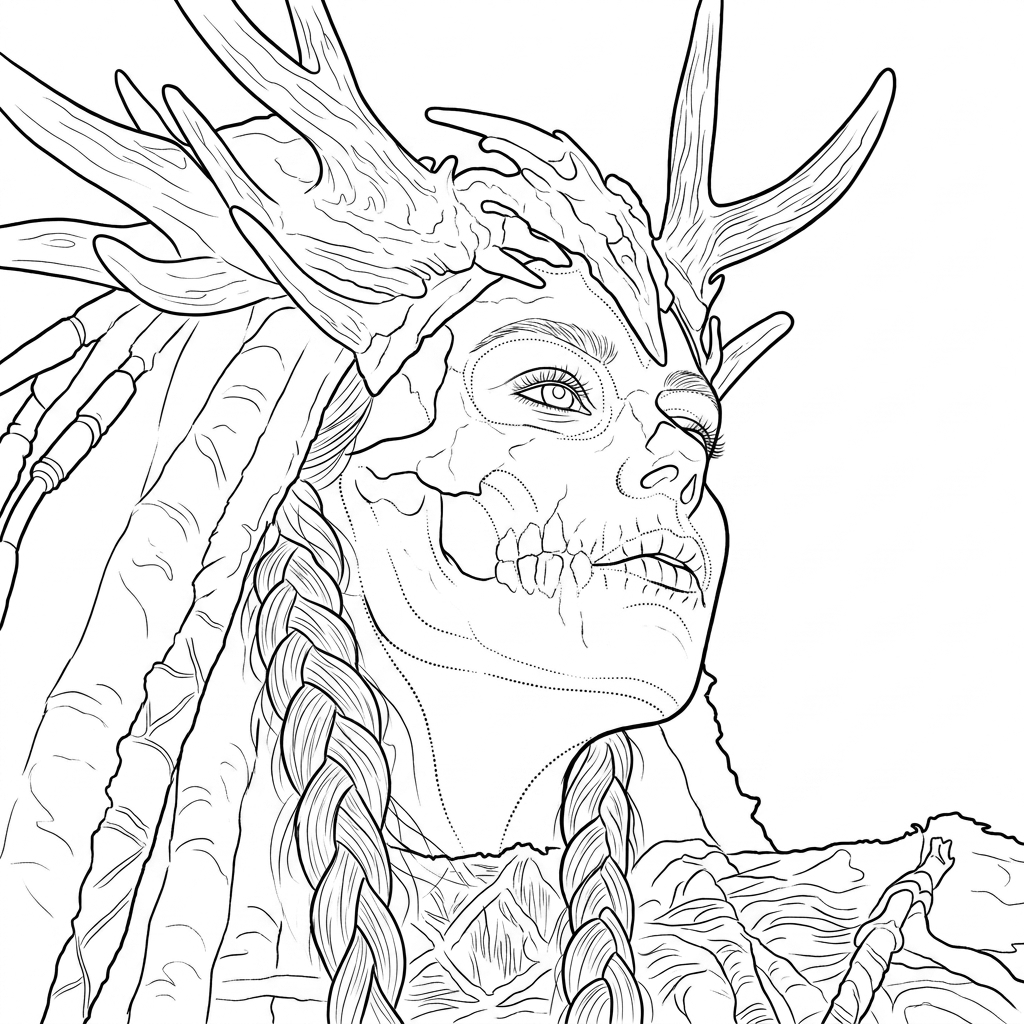
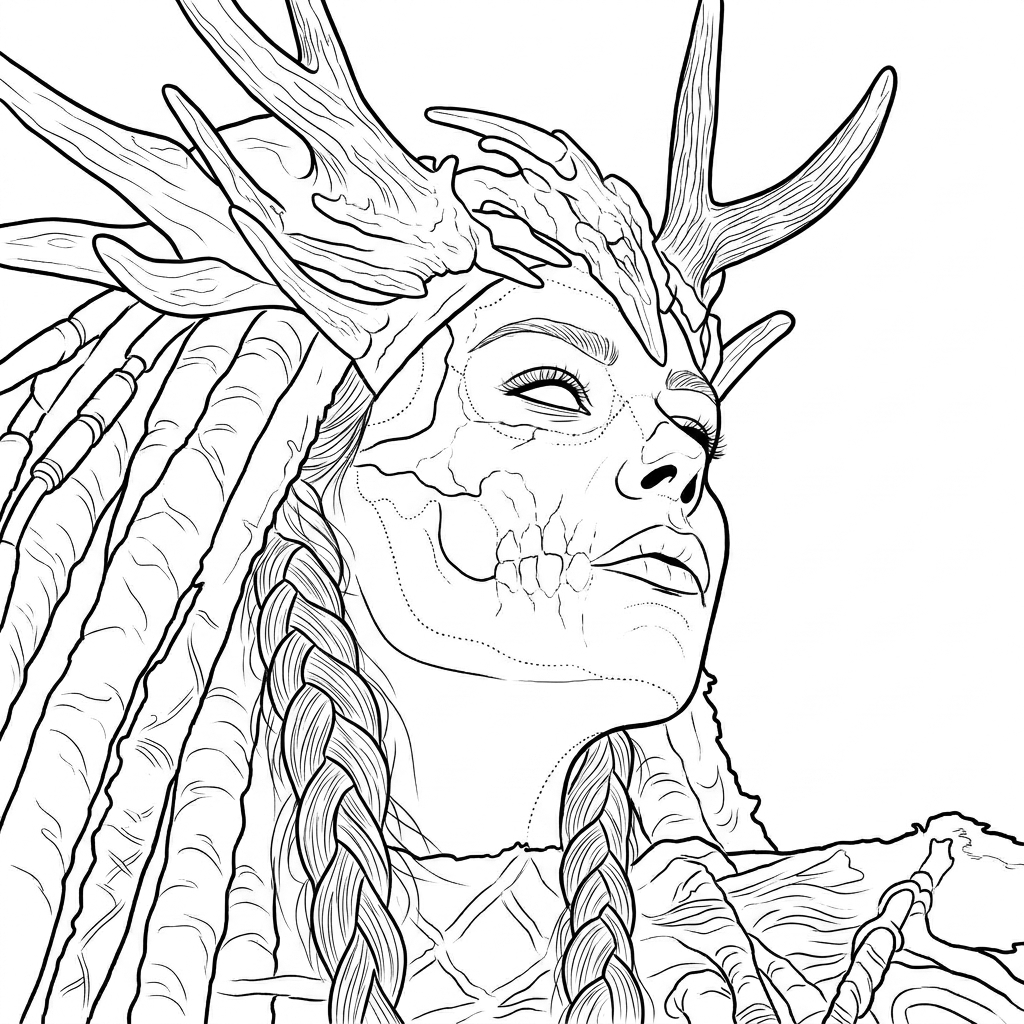
auto-commit for e076563c-9f85-4461-987d-11b3544e3045

Changed region(s): [[0.0, 0.0, 1.0, 1.0], [0.6875, 0.6562, 0.7188, 0.6875], [0.0, 0.0938, 0.0312, 0.125]]

diff --git a/backend/server.py b/backend/server.py
@@ -2065,6 +2065,9 @@ LIKENESS ENFORCEMENT (strict — applies before every other rule below):
 
 If you feel tempted to draw a "clean" or "better" version of the subject than what the reference shows — stop and trace the reference instead.
 
+BACKGROUND DOMINANCE (additional enforcement):
+Do NOT add background elements that are not explicitly present in the reference. Do NOT generate a moon, clouds, sky, stars, sun, smoke, mist, halos, auras, decorative motifs, frames, borders, scenery, landscapes, patterns, textures, or any environmental element unless that exact element appears in the reference image. The background of the stencil is PURE WHITE. If the reference background is dark, complex, or detailed — the stencil background is STILL pure white with no added content behind the subject. Inventing background elements is a FAILURE CONDITION.
+
 BLUEPRINT HEAVY+ — Tattoo Stencil (production standard).
 Every rule below applies on top of REFERENCE DOMINANCE and LIKENESS ENFORCEMENT above. Those two always win.
 
@@ -2097,6 +2100,12 @@ Specific per-region enforcement (apply every time the reference shows any of the
 - Inside the mouth (when visible) → contour lines for the tongue, outlines for each individual tooth, line for the lip-interior edge, lines indicating palate / inner cheek curvature. Never a filled dark mass between the lips.
 - Recessed cavities (any hollow opening in any subject) → rim outline + internal structural outlines. Never a filled darker patch.
 - Any solid-black region in the output is a FAILURE CONDITION, regardless of what the reference shows in that region.
+
+MANDATORY FINAL-CHECK (self-verification before output):
+Before finalizing, scan the entire output for any region larger than a single line stroke that is rendered as solid black or uniform dark gray. For any such region found:
+   - It is a FAILURE CONDITION.
+   - Replace it with boundary outlines + internal structural line work.
+This check applies to ALL naturally dark reference features — including (for animal subjects) nostrils, inner eye corners, pupils, mouth interior, ear interiors, under-jaw shadows, paw-pad creases; and (for human subjects) the regions already enumerated above. If the output contains any filled dark area, redraw that area as line work before returning it.
 
 - Face paint, makeup, scars, skull-paint patterns, tattoos are drawn as OUTLINES in their exact reference positions — never as filled shapes.
 - Do not use crosshatching, stippling, gradients, or any mark pattern intended to simulate tone.
